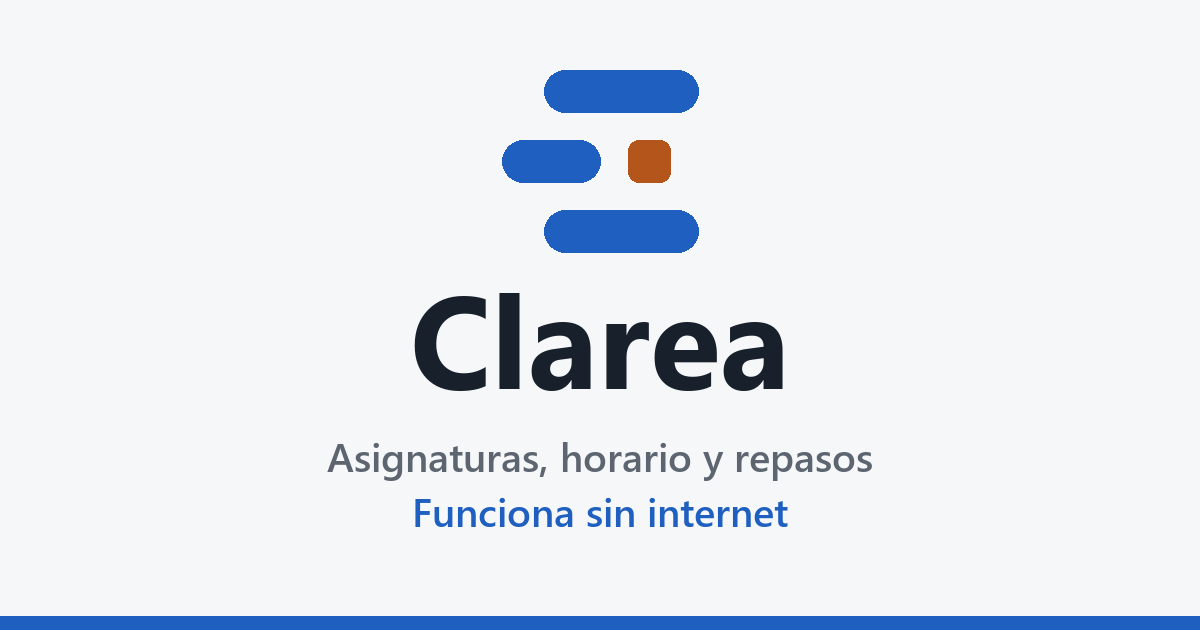
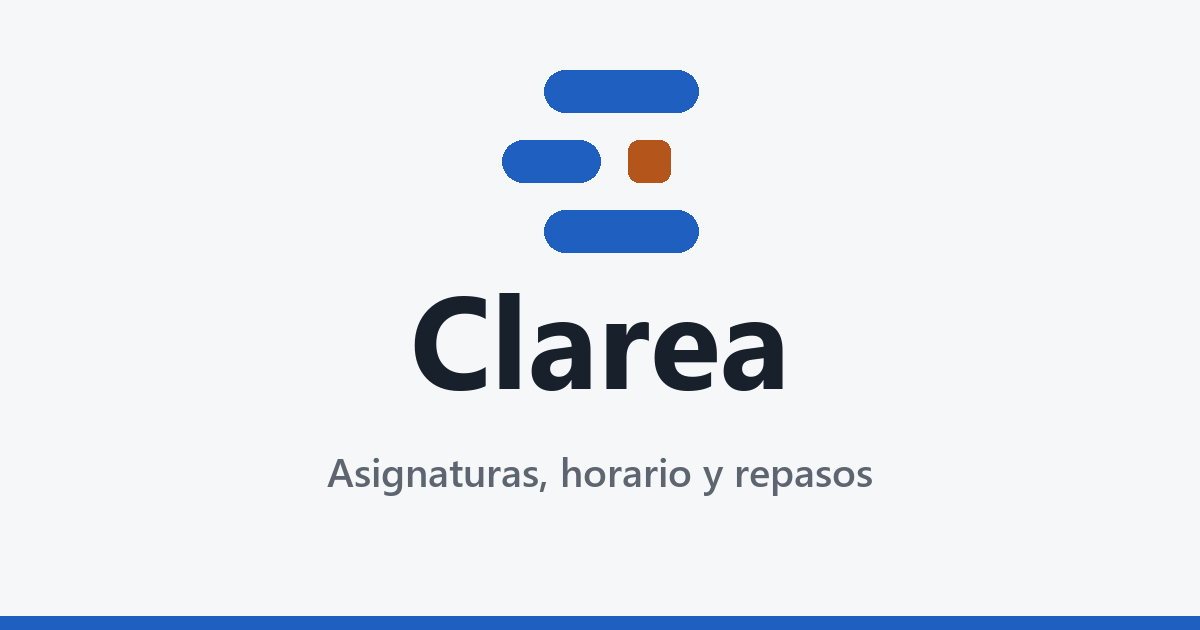
Share preview without the offline line

Changed region(s): [[0.2775, 0.6937, 0.74, 0.8444]]

diff --git a/repaso-pj6.html b/repaso-pj6.html
@@ -2,11 +2,11 @@
 <html lang="es">
 <head>
 <meta charset="utf-8">
-<meta name="description" content="Tus asignaturas, horario, faltas de asistencia y repasos de proyectos. Funciona sin internet.">
+<meta name="description" content="Tus asignaturas, horario, faltas de asistencia y repasos de proyectos.">
 <meta property="og:type" content="website">
 <meta property="og:site_name" content="Clarea">
 <meta property="og:title" content="Clarea">
-<meta property="og:description" content="Asignaturas, horario, faltas y repasos de tus proyectos. Funciona sin internet.">
+<meta property="og:description" content="Asignaturas, horario, faltas y repasos de tus proyectos.">
 <meta property="og:url" content="https://iscavidev.github.io/clarea/">
 <meta property="og:image" content="https://iscavidev.github.io/clarea/og-image.png">
 <meta property="og:image:width" content="1200">
@@ -24,7 +24,7 @@
 <link rel="manifest" href="manifest.webmanifest">
 <link rel="apple-touch-icon" href="apple-touch-icon.png">
 <link rel="icon" type="image/png" href="icon-192.png">
-<script>window.CLAREA_VERSION = "20261112014447";</script>
+<script>window.CLAREA_VERSION = "20261112014608";</script>
 <title>PJ6 · Repaso · Clarea</title>
 <meta name="viewport" content="width=device-width, initial-scale=1, viewport-fit=cover">
 <link rel="preconnect" href="https://fonts.googleapis.com">

diff --git a/proyecto.html b/proyecto.html
@@ -2,11 +2,11 @@
 <html lang="es">
 <head>
 <meta charset="utf-8">
-<meta name="description" content="Tus asignaturas, horario, faltas de asistencia y repasos de proyectos. Funciona sin internet.">
+<meta name="description" content="Tus asignaturas, horario, faltas de asistencia y repasos de proyectos.">
 <meta property="og:type" content="website">
 <meta property="og:site_name" content="Clarea">
 <meta property="og:title" content="Clarea">
-<meta property="og:description" content="Asignaturas, horario, faltas y repasos de tus proyectos. Funciona sin internet.">
+<meta property="og:description" content="Asignaturas, horario, faltas y repasos de tus proyectos.">
 <meta property="og:url" content="https://iscavidev.github.io/clarea/">
 <meta property="og:image" content="https://iscavidev.github.io/clarea/og-image.png">
 <meta property="og:image:width" content="1200">
@@ -24,7 +24,7 @@
 <link rel="manifest" href="manifest.webmanifest">
 <link rel="apple-touch-icon" href="apple-touch-icon.png">
 <link rel="icon" type="image/png" href="icon-192.png">
-<script>window.CLAREA_VERSION = "20261112014447";</script>
+<script>window.CLAREA_VERSION = "20261112014608";</script>
 <title>Proyecto · Clarea</title>
 <meta name="viewport" content="width=device-width, initial-scale=1, viewport-fit=cover">
 <link rel="preconnect" href="https://fonts.googleapis.com">

diff --git a/404.html b/404.html
@@ -2,11 +2,11 @@
 <html lang="es">
 <head>
 <meta charset="utf-8">
-<meta name="description" content="Tus asignaturas, horario, faltas de asistencia y repasos de proyectos. Funciona sin internet.">
+<meta name="description" content="Tus asignaturas, horario, faltas de asistencia y repasos de proyectos.">
 <meta property="og:type" content="website">
 <meta property="og:site_name" content="Clarea">
 <meta property="og:title" content="Clarea">
-<meta property="og:description" content="Asignaturas, horario, faltas y repasos de tus proyectos. Funciona sin internet.">
+<meta property="og:description" content="Asignaturas, horario, faltas y repasos de tus proyectos.">
 <meta property="og:url" content="https://iscavidev.github.io/clarea/">
 <meta property="og:image" content="https://iscavidev.github.io/clarea/og-image.png">
 <meta property="og:image:width" content="1200">
@@ -24,7 +24,7 @@
 <link rel="manifest" href="manifest.webmanifest">
 <link rel="apple-touch-icon" href="apple-touch-icon.png">
 <link rel="icon" type="image/png" href="icon-192.png">
-<script>window.CLAREA_VERSION = "20261112014447";</script>
+<script>window.CLAREA_VERSION = "20261112014608";</script>
 <title>Clarea</title>
 <meta name="viewport" content="width=device-width, initial-scale=1, viewport-fit=cover">
 <link rel="preconnect" href="https://fonts.googleapis.com">

diff --git a/index.html b/index.html
@@ -2,11 +2,11 @@
 <html lang="es">
 <head>
 <meta charset="utf-8">
-<meta name="description" content="Tus asignaturas, horario, faltas de asistencia y repasos de proyectos. Funciona sin internet.">
+<meta name="description" content="Tus asignaturas, horario, faltas de asistencia y repasos de proyectos.">
 <meta property="og:type" content="website">
 <meta property="og:site_name" content="Clarea">
 <meta property="og:title" content="Clarea">
-<meta property="og:description" content="Asignaturas, horario, faltas y repasos de tus proyectos. Funciona sin internet.">
+<meta property="og:description" content="Asignaturas, horario, faltas y repasos de tus proyectos.">
 <meta property="og:url" content="https://iscavidev.github.io/clarea/">
 <meta property="og:image" content="https://iscavidev.github.io/clarea/og-image.png">
 <meta property="og:image:width" content="1200">
@@ -24,7 +24,7 @@
 <link rel="manifest" href="manifest.webmanifest">
 <link rel="apple-touch-icon" href="apple-touch-icon.png">
 <link rel="icon" type="image/png" href="icon-192.png">
-<script>window.CLAREA_VERSION = "20261112014447";</script>
+<script>window.CLAREA_VERSION = "20261112014608";</script>
 <title>Clarea</title>
 <meta name="viewport" content="width=device-width, initial-scale=1, viewport-fit=cover">
 <link rel="preconnect" href="https://fonts.googleapis.com">

diff --git a/sw.js b/sw.js
@@ -2,7 +2,7 @@
    - Each published version has its own cache, filled when the new version is downloaded.
    - The new version waits until the user taps "Actualizar" (message SKIP_WAITING), then the page reloads.
    - Works without internet: everything is answered from the cache. */
-const CACHE = "clarea-20261112014447";
+const CACHE = "clarea-20261112014608";
 const CORE = ["./", "./index.html", "./repaso-pj6.html", "./proyecto.html", "./manifest.webmanifest", "./icon-192.png", "./icon-512.png", "./apple-touch-icon.png"];
 
 function pageKey(req){ const p = new URL(req.url).pathname; return /repaso-pj6\.html$/.test(p) ? "./repaso-pj6.html" : /proyecto\.html$/.test(p) ? "./proyecto.html" : "./index.html"; }
